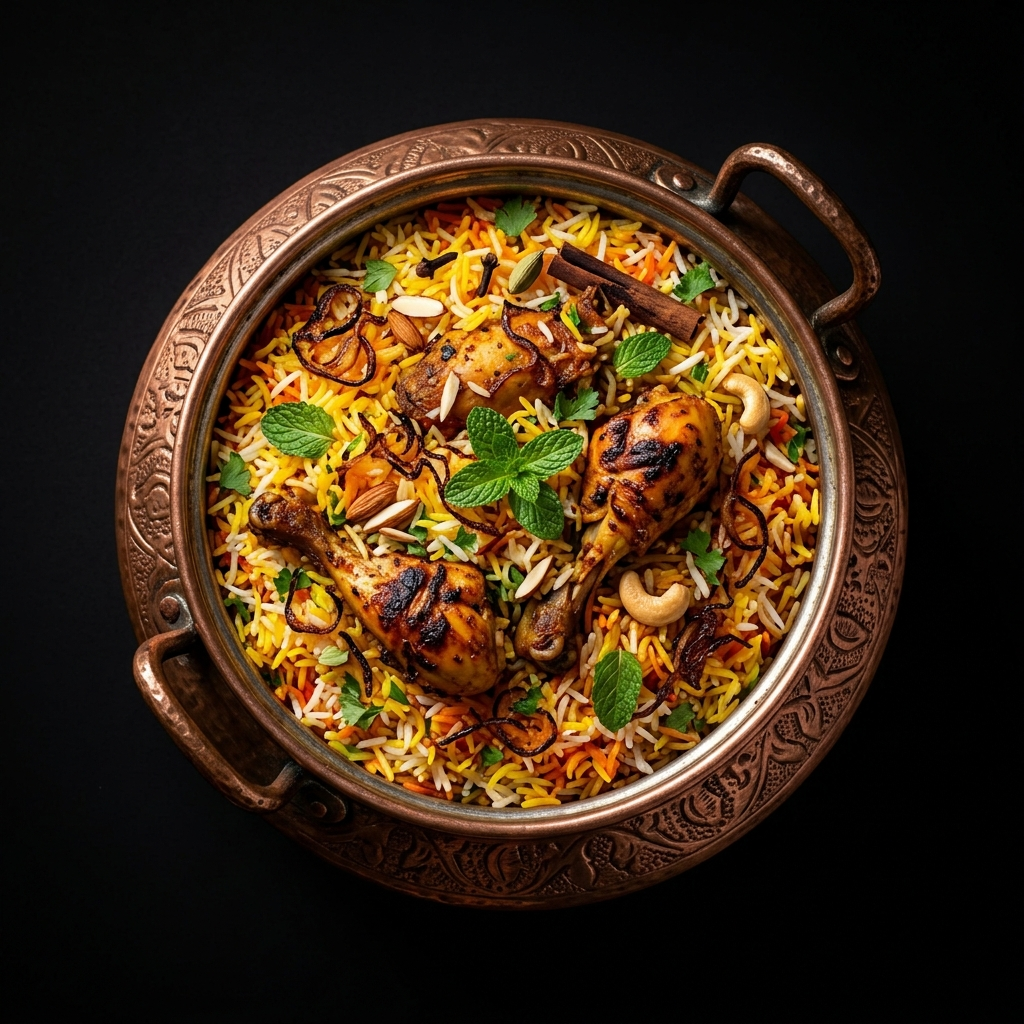
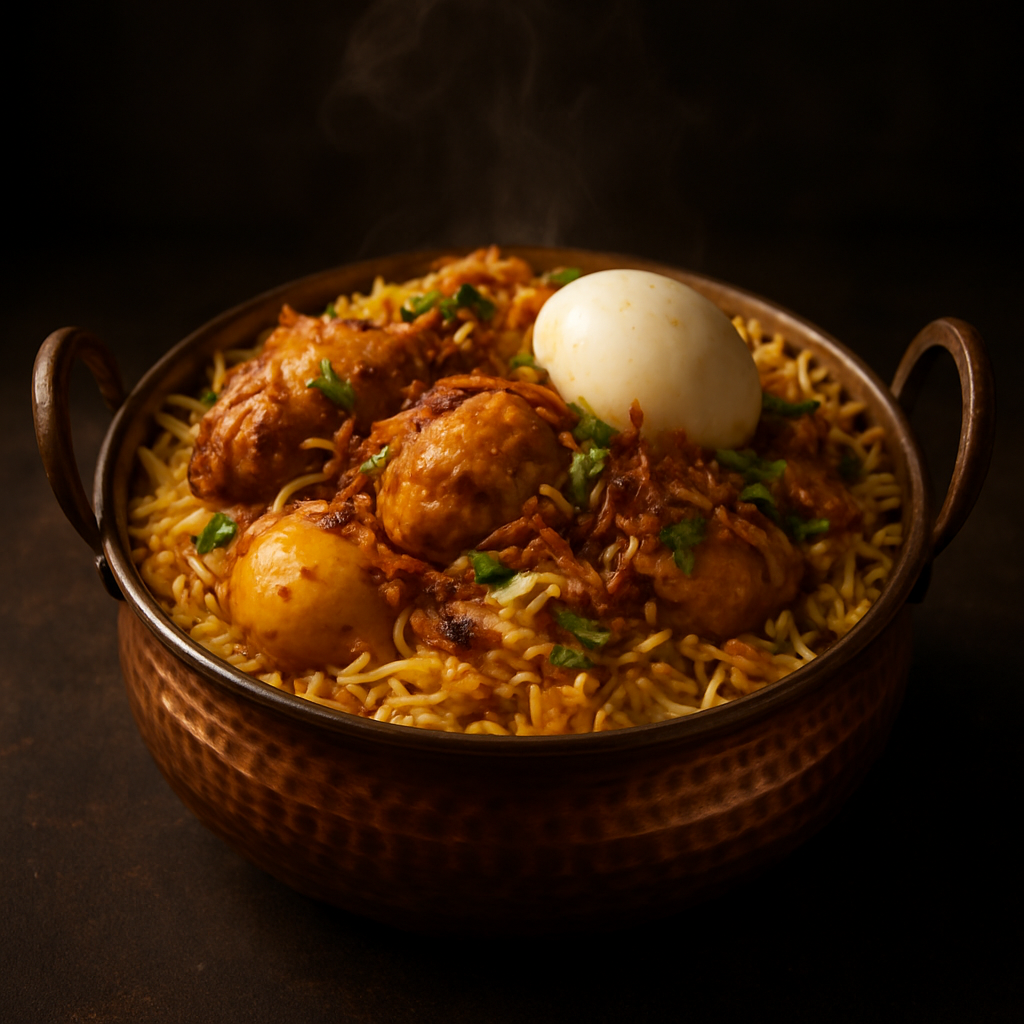
feat: update homepage layout and add new animations

diff --git a/src/app/page.tsx b/src/app/page.tsx
@@ -2,7 +2,7 @@
 
 import React, { useState } from 'react';
 import { Navbar } from '@/components/ui/Navbar';
-import { HeroScene } from '@/components/3d/HeroScene';
+import { Hero } from '@/components/sections/Hero';
 import { ScrollStory } from '@/components/sections/ScrollStory';
 import { Menu } from '@/components/sections/Menu';
 import { Location } from '@/components/sections/Location';
@@ -12,60 +12,44 @@ import { ShoppingBag } from 'lucide-react';
 export default function Home() {
   const [isOrderModalOpen, setIsOrderModalOpen] = useState(false);
 
+  const openOrder = () => setIsOrderModalOpen(true);
+
   return (
-    <main className="min-h-screen bg-background flex flex-col relative">
-      <Navbar />
-      
+    <main className="relative flex min-h-screen flex-col bg-background">
+      <Navbar onOrderClick={openOrder} />
+
       {/* Sticky Order Button */}
-      <div className="fixed bottom-8 right-8 z-50">
+      <div className="fixed bottom-6 right-6 z-40">
         <button
-          onClick={() => setIsOrderModalOpen(true)}
-          className="bg-brand-gold hover:bg-yellow-500 text-background px-6 py-4 rounded-full font-bold font-sans flex items-center gap-3 shadow-2xl shadow-brand-gold/30 hover:scale-105 transition-all group"
+          onClick={openOrder}
+          aria-label="Order Murgyani biryani for delivery"
+          className="flex items-center gap-2 rounded-full bg-brand-gold px-5 py-3.5 font-sans font-bold text-background shadow-lg shadow-brand-gold/20 transition-colors hover:bg-yellow-500"
         >
-          <ShoppingBag className="w-5 h-5 group-hover:animate-bounce" />
-          <span className="text-lg">Order Now</span>
+          <ShoppingBag className="h-5 w-5" />
+          <span>Order Now</span>
         </button>
       </div>
 
-      {/* Hero Section */}
-      <section className="relative h-screen w-full flex items-center justify-center">
-        <HeroScene />
-        <div className="absolute inset-0 bg-gradient-to-t from-background via-transparent to-transparent z-10 pointer-events-none" />
-        
-        <div className="relative z-20 text-center px-4 mt-40 pointer-events-none">
-          <h1 className="text-6xl md:text-8xl font-serif text-brand-gold mb-4 drop-shadow-[0_5px_5px_rgba(0,0,0,0.8)]">
-            MURGYANI
-          </h1>
-          <p className="text-xl md:text-3xl font-serif text-white tracking-widest uppercase drop-shadow-lg">
-            The Khandaani Biryani
-          </p>
-          <p className="mt-6 text-neutral-300 font-sans max-w-lg mx-auto text-sm md:text-base drop-shadow-md">
-            Premium delivery-first cloud kitchen in Mukundapur, Kolkata.
-          </p>
-        </div>
-      </section>
+      {/* Homepage / Hero */}
+      <Hero onOrderClick={openOrder} />
 
-      {/* Cinematic Scroll Story */}
+      {/* Why Us */}
       <ScrollStory />
 
-      {/* Menu Section */}
-      <Menu onOrderClick={() => setIsOrderModalOpen(true)} />
+      {/* Menu */}
+      <Menu onOrderClick={openOrder} />
 
-      {/* Location Section */}
-      <Location />
+      {/* Contact / Location */}
+      <Location onOrderClick={openOrder} />
 
       {/* Footer */}
-      <footer className="py-8 bg-neutral-950 text-center border-t border-white/5 relative z-10">
-        <p className="text-neutral-500 text-sm font-sans">
+      <footer className="border-t border-white/5 bg-neutral-950 py-8 text-center">
+        <p className="font-sans text-sm text-neutral-500">
           &copy; {new Date().getFullYear()} Murgyani | Arishario Food and Beverages. All rights reserved.
         </p>
       </footer>
 
-      {/* Order Modal */}
-      <OrderModal 
-        isOpen={isOrderModalOpen} 
-        onClose={() => setIsOrderModalOpen(false)} 
-      />
+      <OrderModal isOpen={isOrderModalOpen} onClose={() => setIsOrderModalOpen(false)} />
     </main>
   );
 }

diff --git a/src/components/sections/Hero.tsx b/src/components/sections/Hero.tsx
@@ -1,0 +1,72 @@
+'use client';
+
+import React from 'react';
+import Image from 'next/image';
+import { ShoppingBag, MapPin } from 'lucide-react';
+
+export const Hero: React.FC<{ onOrderClick: () => void }> = ({ onOrderClick }) => {
+  return (
+    <section className="relative overflow-hidden bg-background pt-28 pb-16 md:pt-36 md:pb-24 px-6 lg:px-24">
+      {/* Soft static glow accent (no JS, GPU-friendly) */}
+      <div
+        aria-hidden="true"
+        className="pointer-events-none absolute -top-24 right-0 h-[60vw] max-h-[520px] w-[60vw] max-w-[520px] rounded-full bg-brand-gold/15 blur-[120px]"
+      />
+
+      <div className="relative z-10 mx-auto grid max-w-6xl grid-cols-1 items-center gap-12 lg:grid-cols-2">
+        {/* Copy */}
+        <div className="animate-fade-up text-center lg:text-left">
+          <span className="inline-block rounded-full border border-brand-gold/30 bg-brand-gold/5 px-4 py-1 text-xs font-bold uppercase tracking-[0.2em] text-brand-gold">
+            Delivery-First Cloud Kitchen
+          </span>
+          <h1 className="mt-6 font-serif text-5xl leading-none text-brand-gold drop-shadow-[0_4px_4px_rgba(0,0,0,0.6)] md:text-7xl">
+            MURGYANI
+          </h1>
+          <p className="mt-3 font-serif text-lg uppercase tracking-[0.3em] text-white md:text-2xl">
+            The Khandaani Biryani
+          </p>
+          <p className="mx-auto mt-6 max-w-md text-pretty font-sans text-base leading-relaxed text-neutral-400 lg:mx-0">
+            Authentic Kolkata-style dum biryani, slow-cooked over fire with a closely
+            guarded family recipe. Freshly prepared in Mukundapur and delivered hot to
+            your door.
+          </p>
+
+          <div className="mt-8 flex flex-col items-center gap-4 sm:flex-row lg:items-start lg:justify-start">
+            <button
+              onClick={onOrderClick}
+              className="flex w-full items-center justify-center gap-2 rounded-full bg-brand-gold px-7 py-3.5 font-sans text-base font-bold text-background transition-colors hover:bg-yellow-500 sm:w-auto"
+            >
+              <ShoppingBag className="h-5 w-5" />
+              Order for Delivery
+            </button>
+            <a
+              href="#menu"
+              className="flex w-full items-center justify-center gap-2 rounded-full border border-white/15 px-7 py-3.5 font-sans text-base font-medium text-neutral-200 transition-colors hover:border-brand-gold/40 hover:text-brand-gold sm:w-auto"
+            >
+              View Menu
+            </a>
+          </div>
+
+          <p className="mt-6 flex items-center justify-center gap-2 font-sans text-sm text-neutral-500 lg:justify-start">
+            <MapPin className="h-4 w-4 text-brand-gold" />
+            Mukundapur, Kolkata &middot; Open daily 12 PM &ndash; 10 PM
+          </p>
+        </div>
+
+        {/* Image */}
+        <div className="relative mx-auto w-full max-w-md lg:max-w-none">
+          <div className="animate-float relative aspect-square overflow-hidden rounded-full border border-white/10 shadow-[0_0_80px_rgba(0,0,0,0.7)]">
+            <Image
+              src="/biryani-bowl.png"
+              alt="Signature Kolkata chicken biryani in a copper handi"
+              fill
+              priority
+              sizes="(max-width: 1024px) 80vw, 40vw"
+              className="object-cover"
+            />
+          </div>
+        </div>
+      </div>
+    </section>
+  );
+};

diff --git a/src/app/globals.css b/src/app/globals.css
@@ -8,9 +8,12 @@
   --color-brand-dark-green: #072617;
   --color-background: #080808;
   --color-foreground: #ededed;
-  
+
   --font-sans: var(--font-inter), sans-serif;
   --font-serif: var(--font-cinzel), serif;
+
+  --animate-fade-up: fade-up 0.7s ease-out both;
+  --animate-float: float 6s ease-in-out infinite;
 }
 
 :root {
@@ -22,4 +25,47 @@ body {
   background: var(--background);
   color: var(--foreground);
   overflow-x: hidden;
+}
+
+/* Lightweight, GPU-friendly keyframes (transform/opacity only) */
+@keyframes fade-up {
+  from {
+    opacity: 0;
+    transform: translate3d(0, 16px, 0);
+  }
+  to {
+    opacity: 1;
+    transform: translate3d(0, 0, 0);
+  }
+}
+
+@keyframes float {
+  0%,
+  100% {
+    transform: translate3d(0, 0, 0);
+  }
+  50% {
+    transform: translate3d(0, -12px, 0);
+  }
+}
+
+.animate-fade-up {
+  animation: var(--animate-fade-up);
+}
+
+.animate-float {
+  animation: var(--animate-float);
+  will-change: transform;
+}
+
+/* Respect users who prefer reduced motion: disable all motion */
+@media (prefers-reduced-motion: reduce) {
+  *,
+  *::before,
+  *::after {
+    animation-duration: 0.001ms !important;
+    animation-iteration-count: 1 !important;
+    transition-duration: 0.001ms !important;
+    scroll-behavior: auto !important;
+  }
 }
